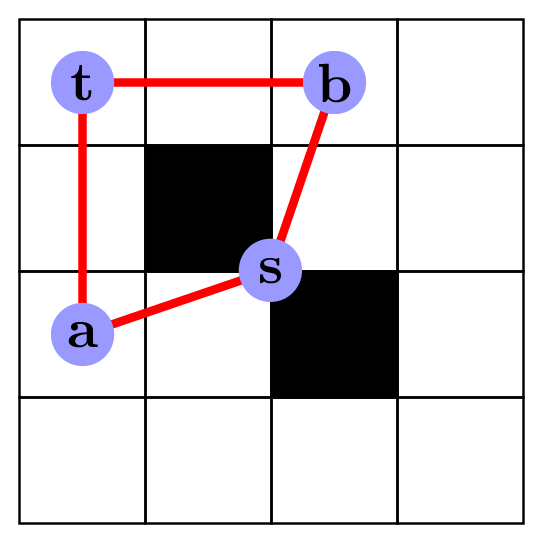
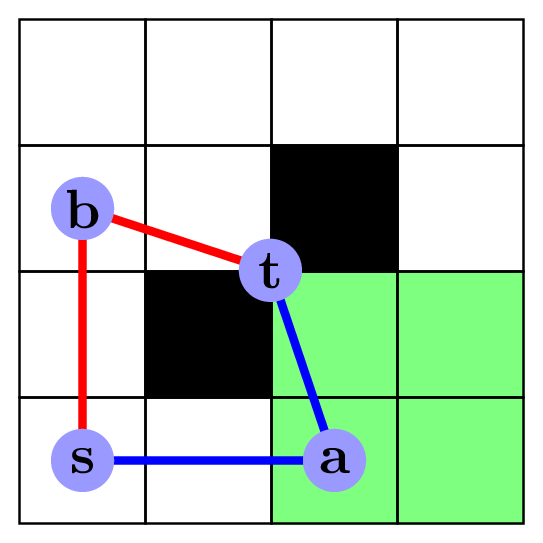
changes to problem defs

diff --git a/figs/latex/invalid_segments_target.tex b/figs/latex/invalid_segments_target.tex
@@ -2,8 +2,8 @@
 \begin{document}
 \begin{tikzpicture}
 
-% \pgfdeclarelayer{background}
-% \pgfsetlayers{background,main}
+\pgfdeclarelayer{background}
+\pgfsetlayers{background,main}
 
 \matrix[square matrix,column 1/.style={}](m){
       &   &   &   \\
@@ -12,22 +12,22 @@
       &   &   &   \\
 };
 
-\node[fill=black, inner sep=0pt, fit=(m-2-2)(m-2-2)] {};
-\node[fill=black, inner sep=0pt, fit=(m-3-3)(m-3-3)] {};
+\node[fill=black, inner sep=0pt, fit=(m-2-3)(m-2-3)] {};
+\node[fill=black, inner sep=0pt, fit=(m-3-2)(m-3-2)] {};
 
 \tikzstyle{p}=[circle,fill=blue!40, inner sep=0pt, minimum size=4mm]
 
-\draw[-,line width=1.5pt, red ] (m-3-3.north west) -- (m-3-1.center) -- (m-1-1.center);
-\draw[-,line width=1.5pt, red ] (m-3-3.north west) -- (m-1-3.center) -- (m-1-1.center);
+\draw[-,line width=1.5pt, blue ] (m-3-3.north west) -- (m-4-3.center) -- (m-4-1.center);
+\draw[-,line width=1.5pt, red ] (m-3-3.north west) -- (m-2-1.center) -- (m-4-1.center);
 
-\node[p] at (m-3-3.north west) {$\mathbf{s}$};
-\node[p] at (m-1-1.center) {$\mathbf{t}$};
-\node[p] at (m-3-1.center) {$\mathbf{a}$};
-\node[p] at (m-1-3.center) {$\mathbf{b}$};
+\node[p] at (m-3-3.north west) {$\mathbf{t}$};
+\node[p] at (m-4-1.center) {$\mathbf{s}$};
+\node[p] at (m-4-3.center) {$\mathbf{a}$};
+\node[p] at (m-2-1.center) {$\mathbf{b}$};
 
-% \begin{pgfonlayer}{background}
-% \fill[green!50] (m-3-3.north west) -- (m-3-4.north east) -- (m-4-4.south east) -- (m-4-3.south west) -- cycle;
-% \end{pgfonlayer}
+\begin{pgfonlayer}{background}
+\fill[green!50] (m-3-3.north west) -- (m-3-4.north east) -- (m-4-4.south east) -- (m-4-3.south west) -- cycle;
+\end{pgfonlayer}
 
 \end{tikzpicture}
 \end{document}

diff --git a/figs/latex/invalid_segments_start2.tex b/figs/latex/invalid_segments_start2.tex
@@ -1,0 +1,34 @@
+\documentclass[main.tex]{subfiles}
+\begin{document}
+\begin{tikzpicture}
+
+% \pgfdeclarelayer{background}
+% \pgfsetlayers{background,main}
+
+\matrix[square matrix,column 1/.style={}](m){
+      &   &   &   \\
+      &   &   &   \\
+      &   &   &   \\
+      &   &   &   \\
+};
+
+\node[fill=black, inner sep=0pt, fit=(m-2-2)(m-2-2)] {};
+\node[fill=black, inner sep=0pt, fit=(m-3-3)(m-3-3)] {};
+
+\tikzstyle{p}=[circle,fill=blue!40, inner sep=0pt, minimum size=4mm]
+
+\draw[-,line width=1.5pt, red ] (m-3-3.north west) -- (m-3-1.center) -- (m-1-1.center);
+\draw[-,line width=1.5pt, red ] (m-3-3.north west) -- (m-1-3.center) -- (m-1-1.center);
+
+\node[p] at (m-3-3.north west) {$\mathbf{s}$};
+\node[p] at (m-1-1.center) {$\mathbf{t}$};
+\node[p] at (m-3-1.center) {$\mathbf{a}$};
+\node[p] at (m-1-3.center) {$\mathbf{b}$};
+
+% \begin{pgfonlayer}{background}
+% \fill[green!50] (m-3-3.north west) -- (m-3-4.north east) -- (m-4-4.south east) -- (m-4-3.south west) -- cycle;
+% \end{pgfonlayer}
+
+\end{tikzpicture}
+\end{document}
+

diff --git a/Problem_Definition.md b/Problem_Definition.md
@@ -76,19 +76,26 @@ The following examples shows the co-visible green region, where `a` can see any 
 Double-corners have special rules on how paths may visit it.
 
 For any coordinates `p` that is not `s` or `t`, you are allows to visit them but not cut through the corner.
-Below shows an example with the blue path `a-x-b` being valid while red path `c-x-d` or `c-d` is invalid:
+Below shows an example with the blue path `<a-x-b>` being valid while red path `<c-x-d>` or `<c-d>` is invalid:
   <p align="center">
     <img src="figs/invalid_segments_cut1.png" height="200" width="200"> <img src="figs/invalid_segments_cut2.png" height="200" width="200">
   </p>
 
 ### Starts and Targets on Double Corners
-If `s` or `t` lies directly on the double-corner, they are only able to enter/leave from a specific direction, examples of valid/invalid shown below:
+
+If `s` or `t` lies directly on the double-corner, they are only able to enter/leave from a specific direction, examples of valid/invalid shown below from start:
   <p align="center">
-    <img src="figs/invalid_segments_start.png" height="200" width="200"> <img src="figs/invalid_segments_target.png" height="200" width="200">
+    <img src="figs/invalid_segments_start.png" height="200" width="200"> <img src="figs/invalid_segments_start2.png" height="200" width="200">
   </p>
 
 We see with the first figure, you can only leave in the south-eastern quadrant of `s` (`<s,a,t>`), while the path leaving north-eastern quadrant (`<s,b,t>`)
 is considered an invalid path.
+
 For the second figure, we have the alternate double-corner, but since this point can never be given as a query point, we simply disallow any `s` or `t` points
 of a path being there, thus will always be an invalid path.
+
+The target point similarly must approach from the south-eastern quadrant, example valid/invalid paths as shown below:
+  <p align="center">
+    <img src="figs/invalid_segments_target.png" height="200" width="200">
+  </p>
 
